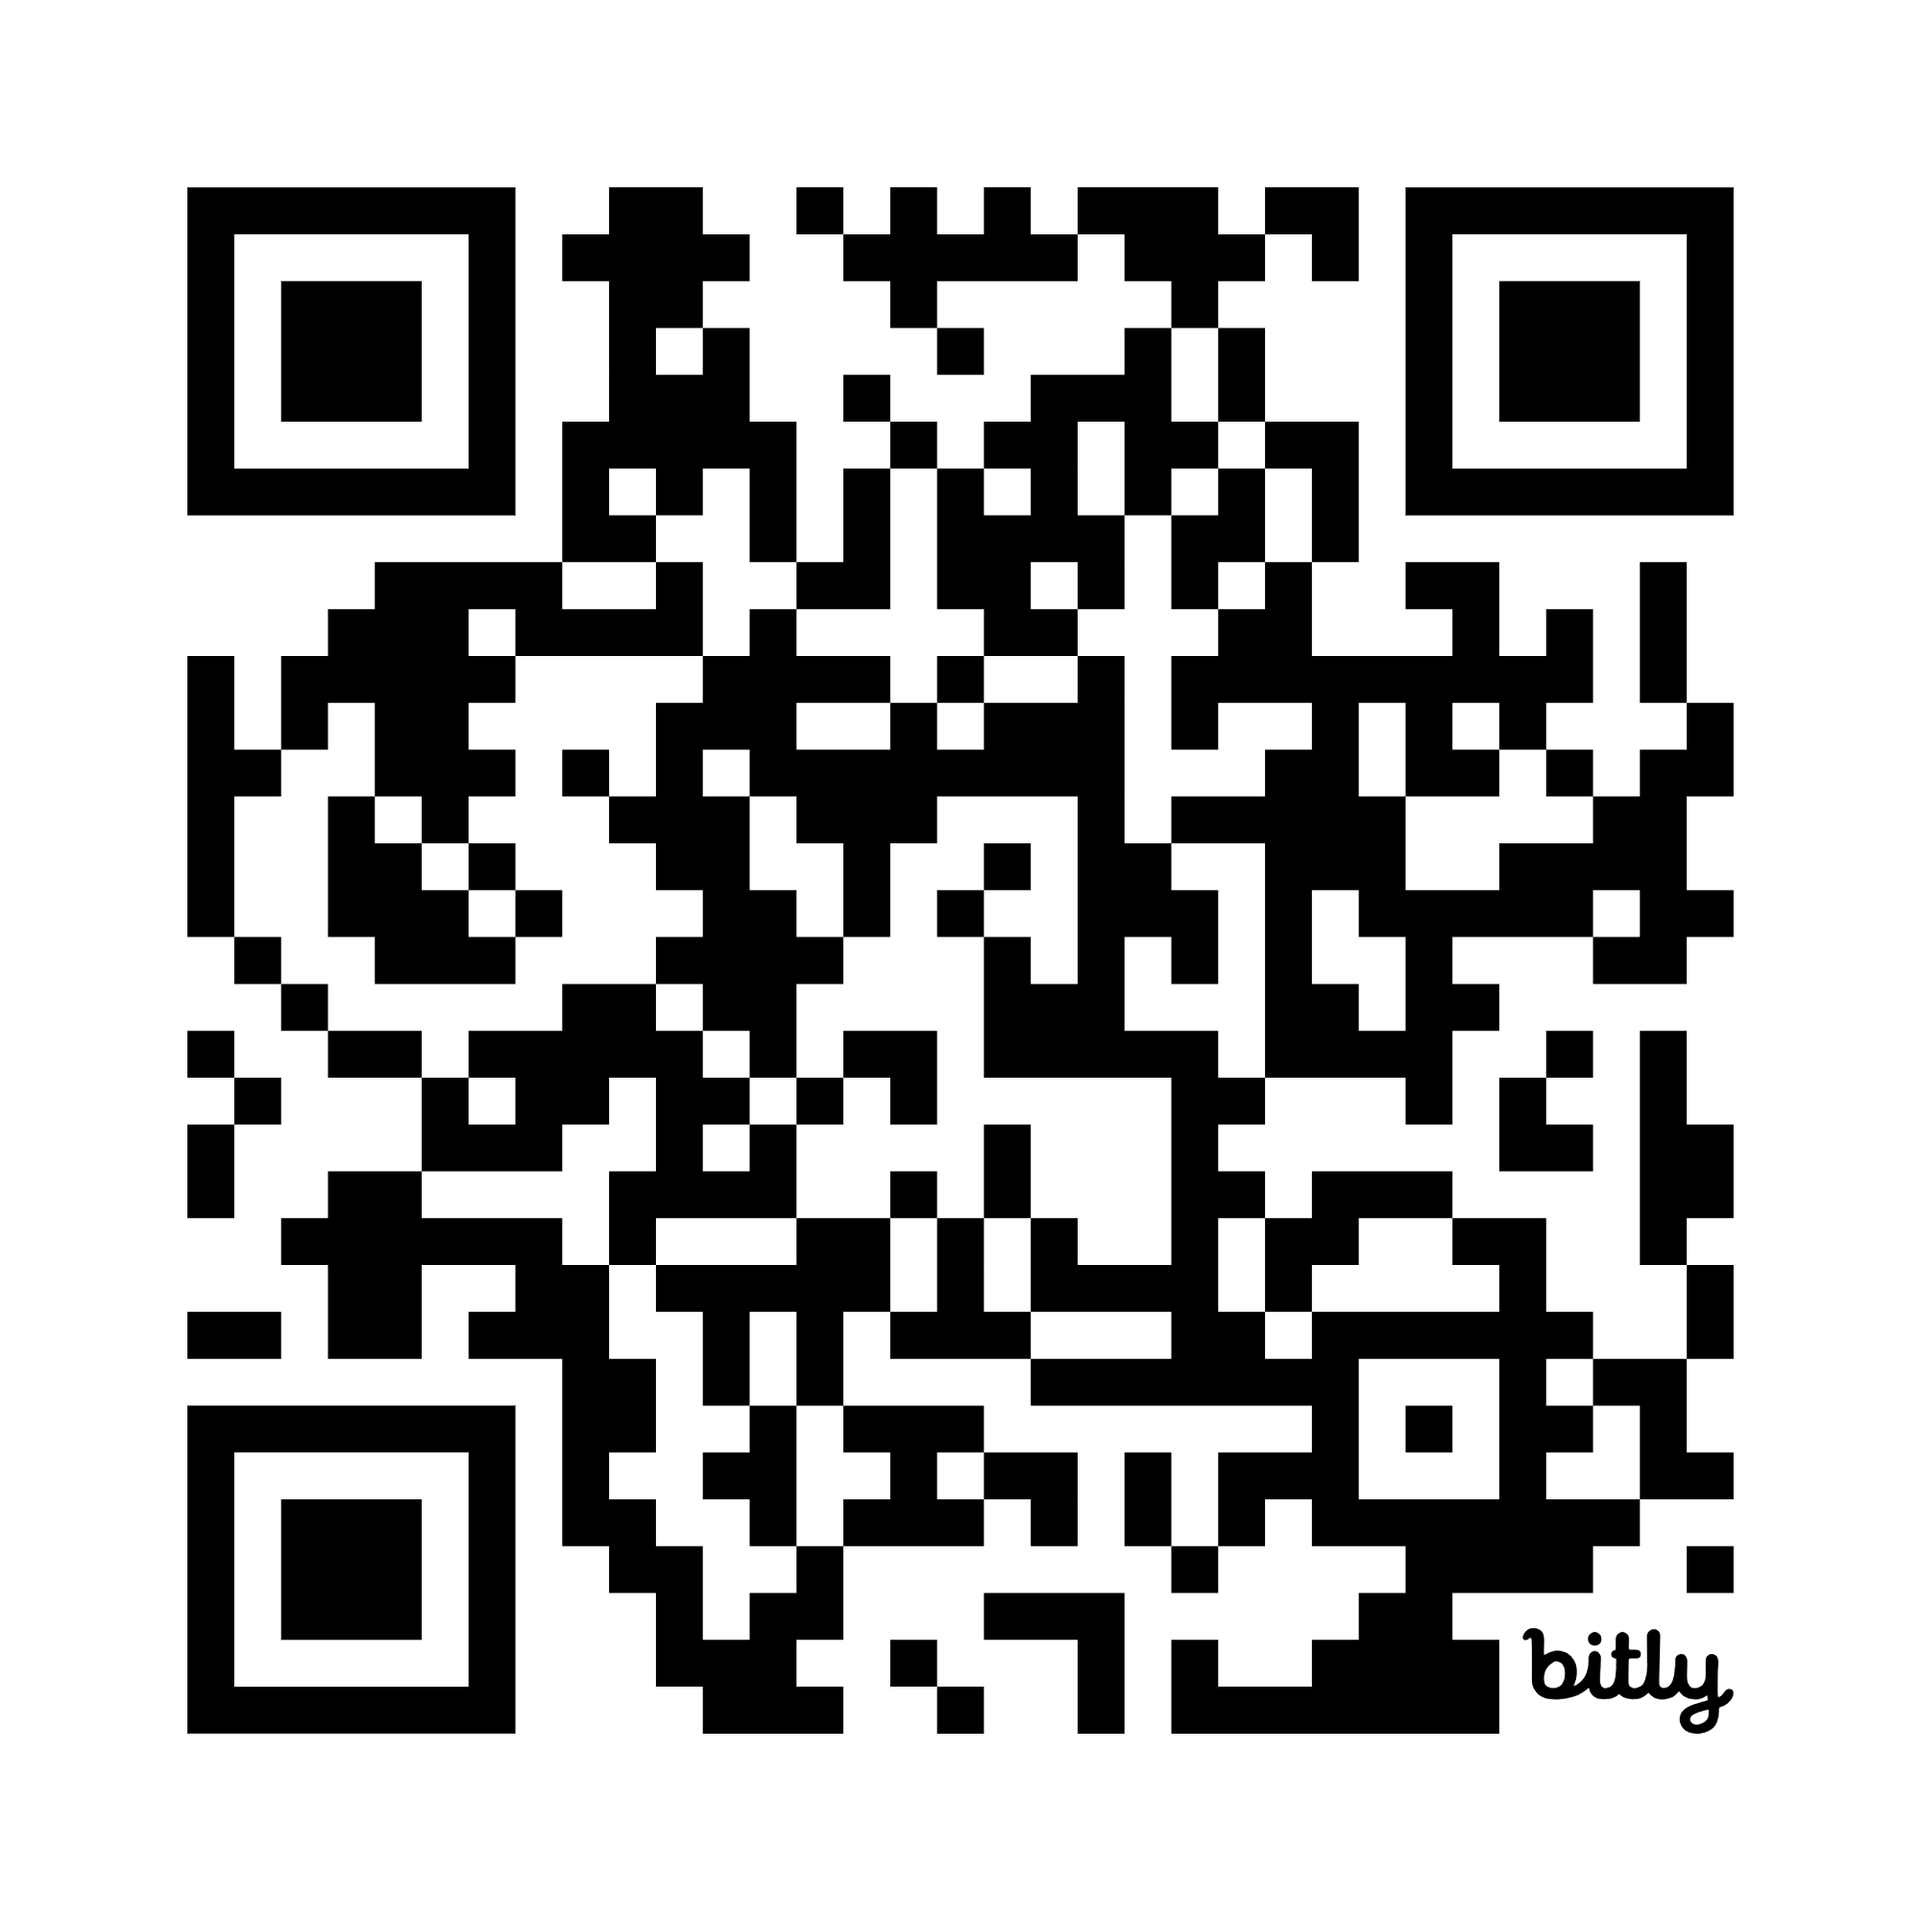
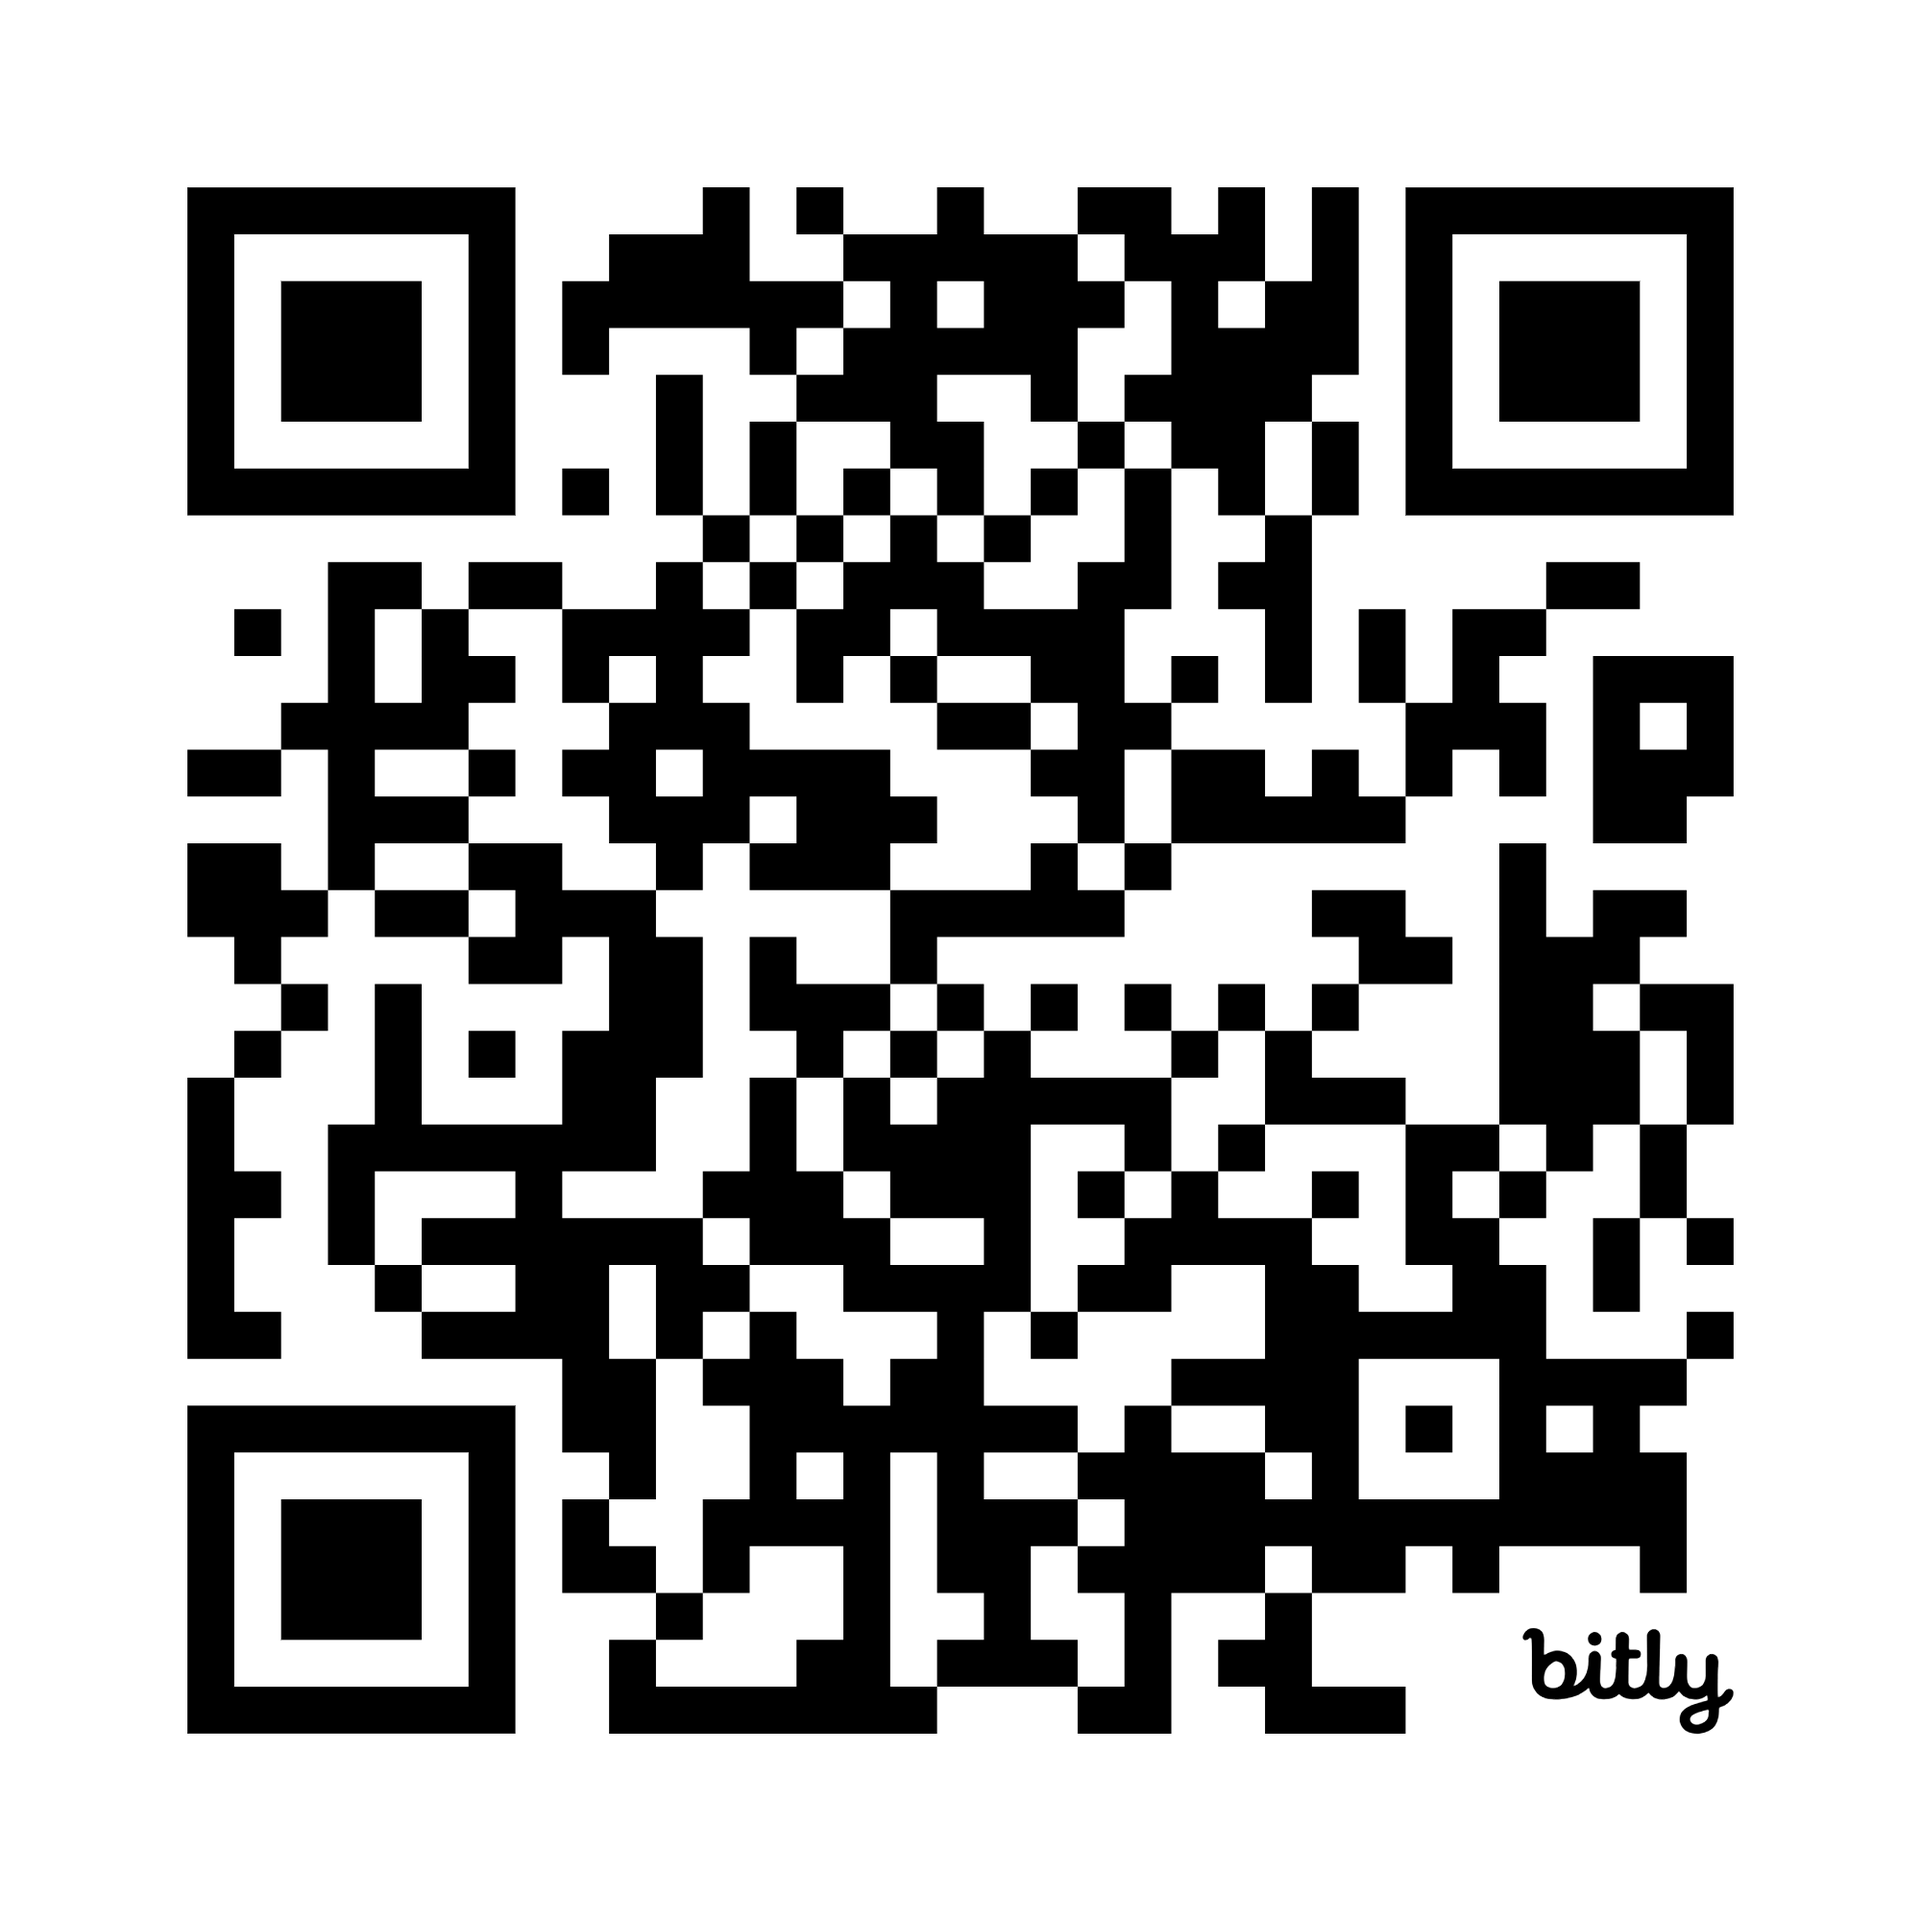
Edit Barcode

Changed region(s): [[0.093, 0.093, 0.93, 0.93]]

diff --git a/index.html b/index.html
@@ -177,10 +177,10 @@
           <div class="info-inner">
             <h3 class="section-title" id="cv">Curriculum Vitae</h3>
             <div class="barcode">
-              <a class="barcode-link" href="https://drive.google.com/file/d/1FHOZ35B8d-hRxiYlBZ_X1t9jSiL9I65g/view?usp=drive_link" target="_blank" rel="noopener" aria-label="Open CV" data-tooltip="Open CV">
+              <a class="barcode-link" href="https://drive.google.com/file/d/1kulMYNBY8JmlbRAm4a8J1IMLPPBH0Hvd/view?usp=sharing" target="_blank" rel="noopener" aria-label="Open CV" data-tooltip="Open CV">
                 <img src="assets/Barcode.png" alt="QR Code to CV" />
               </a>
-              <a class="btn outline barcode-btn" href="https://drive.google.com/file/d/1FHOZ35B8d-hRxiYlBZ_X1t9jSiL9I65g/view?usp=drive_link" target="_blank" rel="noopener" data-tooltip="Open CV">Click or scan this to see my curriculum vitae</a>
+              <a class="btn outline barcode-btn" href="https://drive.google.com/file/d/1kulMYNBY8JmlbRAm4a8J1IMLPPBH0Hvd/view?usp=sharing" target="_blank" rel="noopener" data-tooltip="Open CV">Click or scan this to see my curriculum vitae</a>
             </div>
 
             <h3 class="section-title mt">Hardskill</h3>
